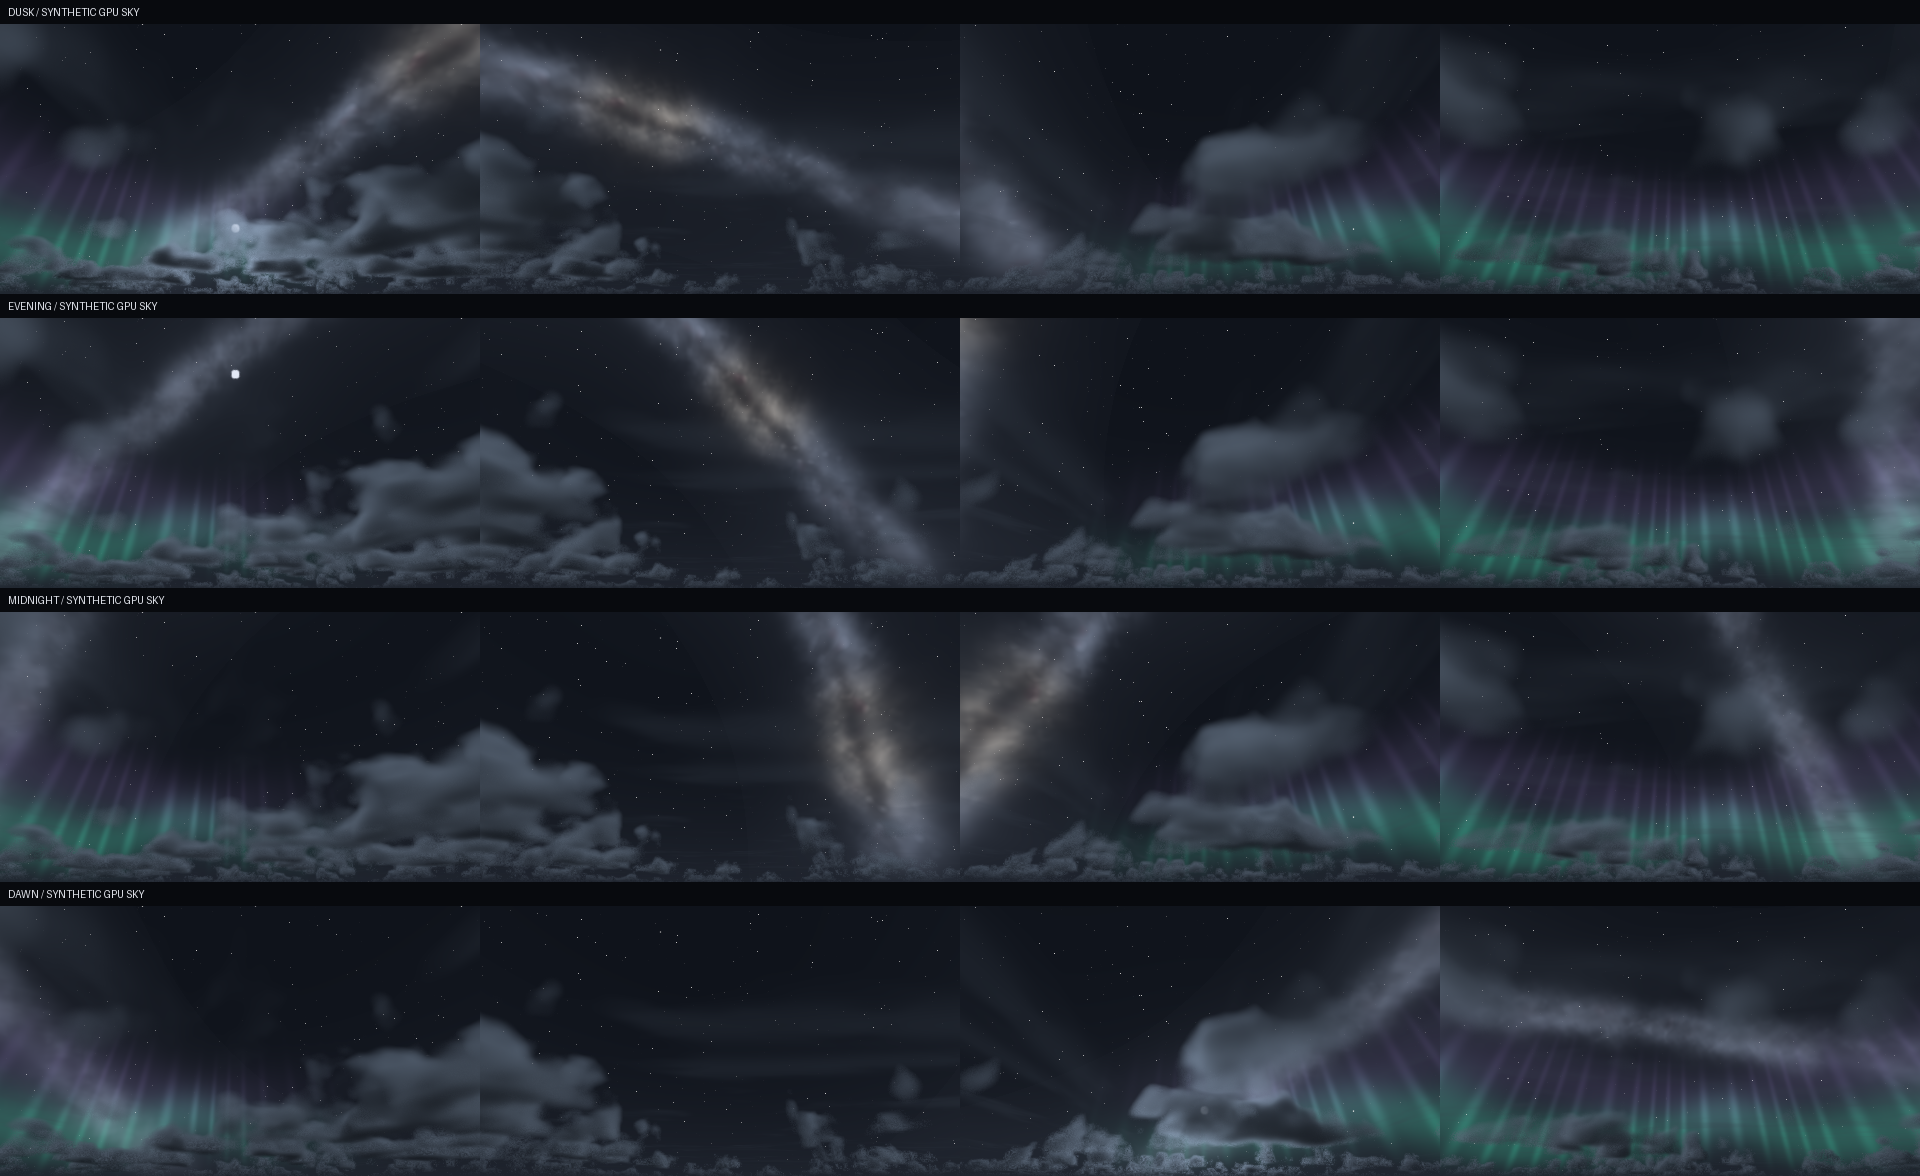
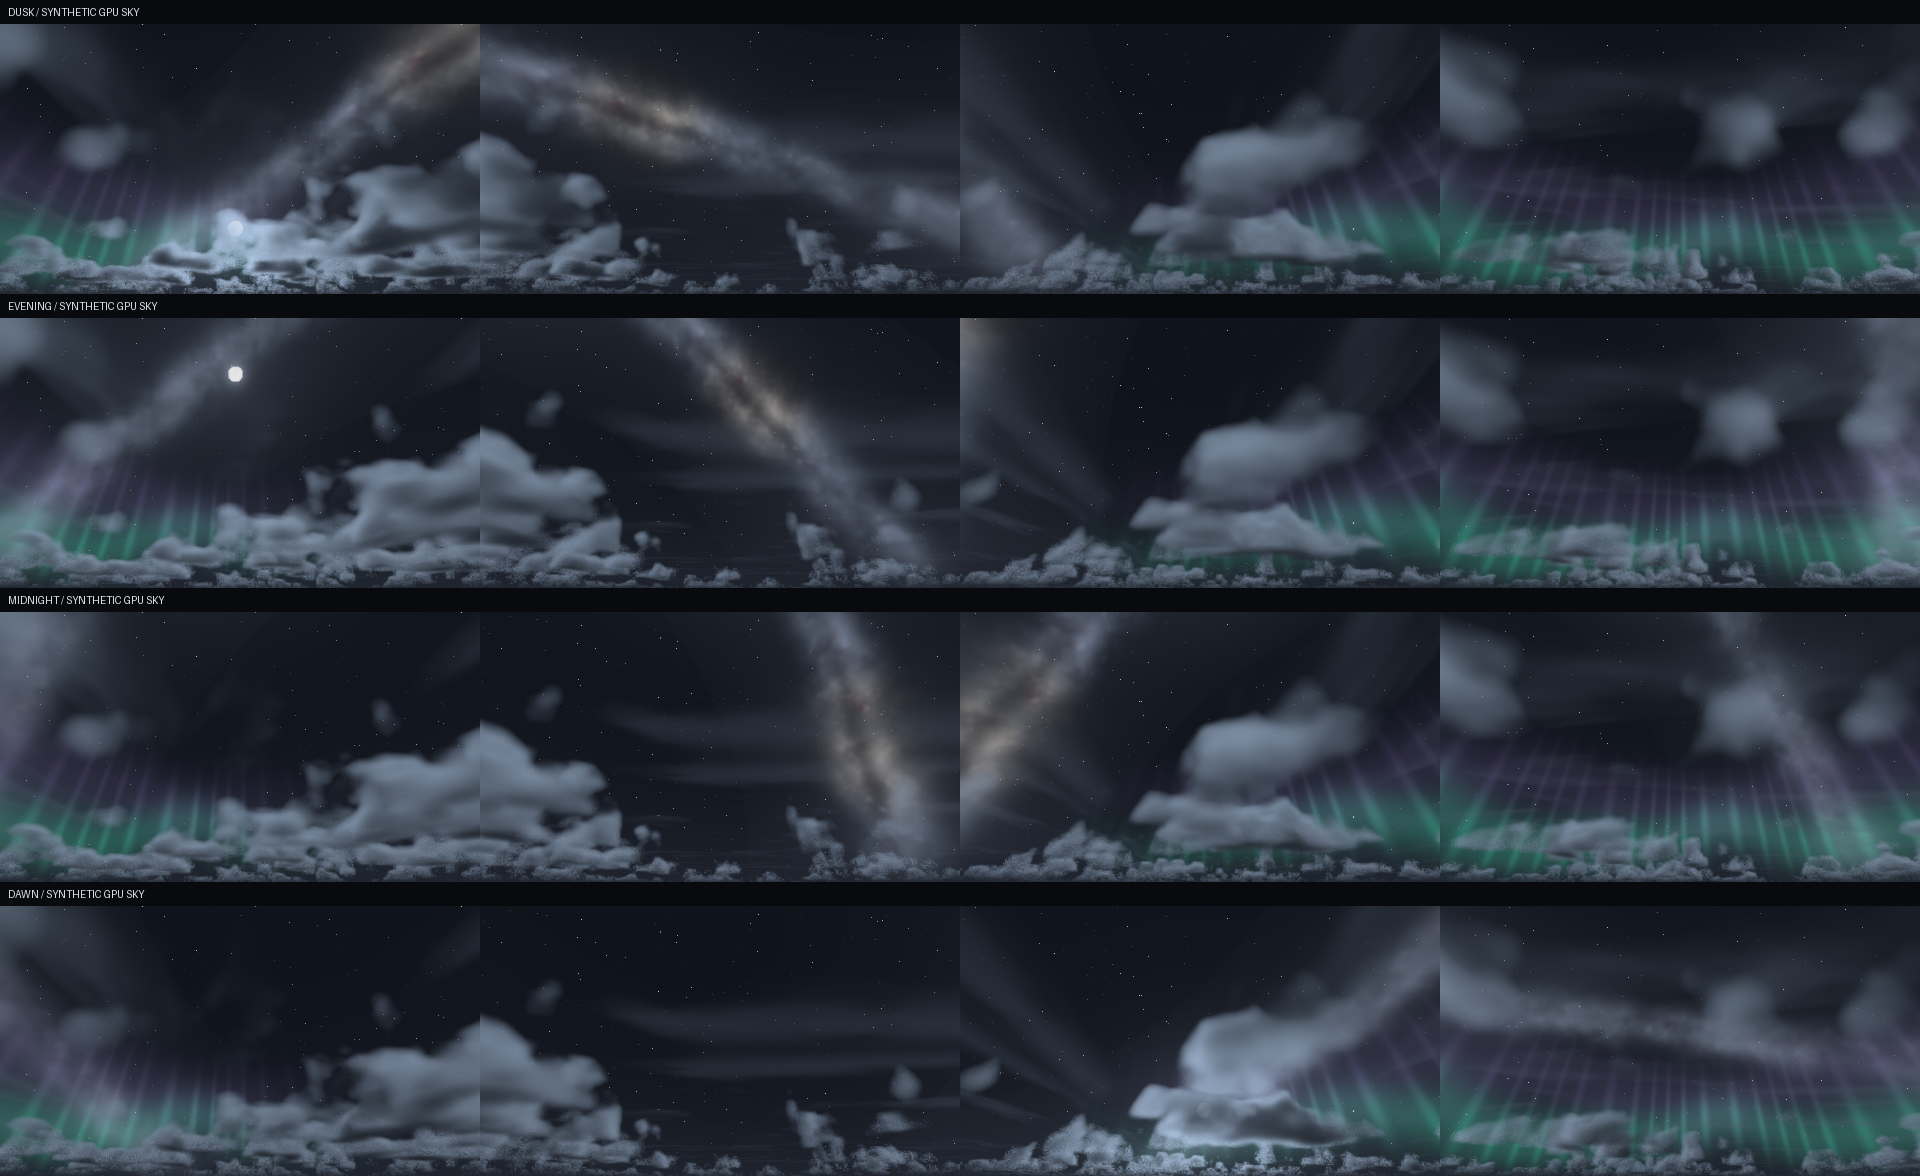
night sky: analytic moon with phases and phase-scaled moonlight
Replace the flat moon disk with a procedural moon: moonPhase drives the
terminator, with maria/crater mottling, faint earthshine and a compact
halo. Directional moonlight now follows the illuminated fraction instead
of keeping near-full brightness at new moon. Most sky rays leave after
one dot product; no texture or render target is added.

Adds GPU regression tests and a moon-phase preview renderer.

diff --git a/tools/test_night_moon.py b/tools/test_night_moon.py
@@ -1,0 +1,147 @@
+"""GPU checks for the analytic moon.
+
+The fixture renders a narrow synthetic view (3 degree half-FOV) around the
+zenith moon and samples moonSky() directly, so the assertions describe the
+phase terminator, surface structure, halo and weather gate without the galaxy
+band or atmosphere gradient masking the result. The call site is covered by
+the compile/render suites. This is not a Minecraft capture.
+"""
+import unittest
+import numpy as np
+from build import SHADERS
+from validate import expand
+from render_smoke import Renderer, U
+
+
+W = H = 256
+HALF_FOV = np.radians(3.0)
+DISK_ANGLE = np.radians(1.9)
+DISK_RADIUS = np.tan(DISK_ANGLE) / np.tan(HALF_FOV)
+
+VERTEX = '#version 330 compatibility\nvoid main(){gl_Position=gl_Vertex;}'
+yy, xx = np.mgrid[0:H, 0:W]
+PX = (xx + 0.5) / W * 2.0 - 1.0
+PY = (yy + 0.5) / H * 2.0 - 1.0
+RR = np.sqrt(PX * PX + PY * PY)
+DISK = RR < 0.75 * DISK_RADIUS        # comfortably inside the limb
+QUARTER = RR < 0.94 * DISK_RADIUS
+HALO = (RR > 1.10 * DISK_RADIUS) & (RR < 1.60 * DISK_RADIUS)
+FAR = RR > 1.25
+
+
+class NightMoonRegression(unittest.TestCase):
+    @classmethod
+    def setUpClass(cls):
+        cls.renderer = Renderer(W, H)
+        fragment = ('#version 330 compatibility\n#define DIMENSION 0\n' +
+                    expand(SHADERS / 'lib/common.glsl') +
+                    expand(SHADERS / 'lib/moon.glsl') +
+                    '''
+uniform vec2 testResolution;
+uniform vec3 testCenter;
+uniform float testNight;
+uniform float testOvercast;
+void main() {
+    vec2 p = gl_FragCoord.xy / testResolution * 2.0 - 1.0;
+    vec3 center = normalize(testCenter);
+    vec3 helper = abs(center.y) > 0.98 ? vec3(0.0, 0.0, 1.0) : vec3(0.0, 1.0, 0.0);
+    vec3 right = normalize(cross(center, helper));
+    vec3 up = cross(right, center);
+    vec3 ray = normalize(center + right * p.x * tan(radians(3.0)) +
+                         up * p.y * tan(radians(3.0)));
+    gl_FragColor = vec4(moonSky(ray, testNight, testOvercast), 1.0);
+}''')
+        cls.program = cls.renderer.gl.compile(VERTEX, fragment)
+        cls.renderer.bind_fbo([cls.renderer.final])
+        cls.renderer.call('glUseProgram', None, [U], cls.program)
+        cls.renderer.uniform(cls.program, 'gbufferModelViewInverse',
+                             np.eye(4, dtype=np.float32))
+        cls.renderer.uniform(cls.program, 'testResolution', [W, H])
+        cls.renderer.uniform(cls.program, 'testCenter', [0.0, 1.0, 0.0])
+
+    @classmethod
+    def tearDownClass(cls):
+        cls.renderer.gl.delete_program(cls.program)
+        cls.renderer.close()
+
+    @classmethod
+    def sky(cls, phase, rain=0.0, night=1.0):
+        """Moon at zenith; the sun is opposite. Phase 0 full, 4 new."""
+        moon = np.array([0.0, 100.0, 0.0], dtype=np.float32)
+        sun = -moon
+        cls.renderer.uniform(cls.program, 'sunPosition', sun)
+        cls.renderer.uniform(cls.program, 'moonPosition', moon)
+        cls.renderer.uniform(cls.program, 'shadowLightPosition', sun)
+        cls.renderer.uniform(cls.program, 'moonPhase', int(phase))
+        cls.renderer.uniform(cls.program, 'testNight', float(night))
+        cls.renderer.uniform(cls.program, 'testOvercast', float(rain) * 0.84)
+        cls.renderer.full_screen()
+        cls.renderer.check('night moon')
+        data = cls.renderer.read(W, H)[:, :, :3]
+        assert np.isfinite(data).all()
+        return data
+
+    @staticmethod
+    def brightness(image):
+        return image @ np.array([0.2126, 0.7152, 0.0722], np.float32)
+
+    def test_daylight_gate(self):
+        day = self.sky(0, night=0.0)
+        self.assertLess(float(day.max()), 1e-5, 'Moon must vanish in daylight')
+
+    def test_deterministic(self):
+        a = self.brightness(self.sky(0))
+        b = self.brightness(self.sky(0))
+        np.testing.assert_array_equal(a, b, 'Moon must be stable between frames')
+
+    def test_full_moon_and_halo(self):
+        image = self.brightness(self.sky(0))
+        disk = float(image[DISK].mean())
+        halo = float(image[HALO].mean())
+        far = float(image[FAR].mean())
+        self.assertGreater(disk, 0.5, 'Full moon disk must read as a bright body')
+        self.assertGreater(halo, far * 2.0, 'Halo must fall off around the disk')
+        self.assertGreater(halo, 0.006, 'Halo must remain visible, not vanish')
+        self.assertLess(halo, disk * 0.35, 'Halo must stay below the disk itself')
+
+    def test_new_moon_goes_dark(self):
+        full = self.brightness(self.sky(0))
+        new = self.brightness(self.sky(4))
+        disk = float(new[DISK].mean())
+        self.assertLess(disk, float(full[DISK].mean()) * 0.10,
+                        'New moon must not show an illuminated disk')
+        self.assertLess(disk, 0.06, 'Earthshine must stay faint')
+        self.assertLess(float(new[HALO].mean()), float(full[HALO].mean()) * 0.85,
+                        'New moon halo must be weaker than the full moon halo')
+
+    def test_quarter_phases_mirror(self):
+        waxing = self.brightness(self.sky(6))  # first quarter
+        waning = self.brightness(self.sky(2))  # last quarter
+        for name, image in (('phase 6', waxing), ('phase 2', waning)):
+            lit = (image[QUARTER] > 0.25).mean()
+            self.assertGreater(float(lit), 0.30, f'{name} must show a lit half')
+            self.assertLess(float(lit), 0.70, f'{name} must stay a half moon')
+        def centroid_x(image):
+            weights = np.where(image > 0.25, image, 0.0)
+            return float((weights * PX).sum() / max(weights.sum(), 1e-8))
+        self.assertLess(centroid_x(waxing) * centroid_x(waning), 0.0,
+                        'Waxing and waning crescents must mirror')
+        self.assertGreater(abs(centroid_x(waxing) - centroid_x(waning)), 0.20,
+                           'The lit limb must flip sides between the phases')
+
+    def test_disk_is_bounded(self):
+        image = self.brightness(self.sky(0))
+        disk = float(image[DISK].mean())
+        beyond = float(image[RR > 1.15 * DISK_RADIUS].max())
+        self.assertLess(beyond, disk * 0.35,
+                        'Nothing bright may leak beyond the moon limb')
+
+    def test_overcast_dims_the_moon(self):
+        clear = self.brightness(self.sky(0))
+        rain = self.brightness(self.sky(0, rain=1.0))
+        self.assertLess(float(rain[DISK].mean()), float(clear[DISK].mean()) * 0.45,
+                        'Overcast weather must strongly dim the moon')
+
+
+if __name__ == '__main__':
+    unittest.main()

diff --git a/tools/render_night_moon.py b/tools/render_night_moon.py
@@ -1,0 +1,119 @@
+"""Render the analytic moon phase sheet and a synthetic night context.
+
+The phase row samples moonSky() directly at a 3 degree half-FOV; the wide frame
+runs the full shader pipeline. Both are synthetic GPU fixtures, not Minecraft
+screenshots.
+"""
+import json
+import math
+import numpy as np
+from PIL import Image, ImageDraw
+from build import ROOT, SHADERS, shader_digest
+from validate import expand
+from render_smoke import Renderer, look_at, U
+
+PHASES = ['FULL', 'WANING GIBBOUS', 'LAST QUARTER', 'WANING CRESCENT',
+          'NEW', 'WAXING CRESCENT', 'FIRST QUARTER', 'WAXING GIBBOUS']
+CELL = 160
+CONTEXT_W, CONTEXT_H = 1280, 480
+VERTEX = '#version 330 compatibility\nvoid main(){gl_Position=gl_Vertex;}'
+
+
+def phase_strip():
+    renderer = Renderer(CELL, CELL)
+    fragment = ('#version 330 compatibility\n#define DIMENSION 0\n' +
+                expand(SHADERS / 'lib/common.glsl') +
+                expand(SHADERS / 'lib/moon.glsl') +
+                '''
+uniform vec2 testResolution;
+uniform vec3 testCenter;
+uniform float testNight;
+uniform float testOvercast;
+void main() {
+    vec2 p = gl_FragCoord.xy / testResolution * 2.0 - 1.0;
+    vec3 center = normalize(testCenter);
+    vec3 helper = abs(center.y) > 0.98 ? vec3(0.0, 0.0, 1.0) : vec3(0.0, 1.0, 0.0);
+    vec3 right = normalize(cross(center, helper));
+    vec3 up = cross(right, center);
+    vec3 ray = normalize(center + right * p.x * tan(radians(3.0)) +
+                         up * p.y * tan(radians(3.0)));
+    vec3 sky = moonSky(ray, testNight, testOvercast);
+    gl_FragColor = vec4(sky + vec3(0.003, 0.004, 0.008), 1.0);
+}''')
+    program = renderer.gl.compile(VERTEX, fragment)
+    renderer.bind_fbo([renderer.final])
+    renderer.call('glUseProgram', None, [U], program)
+    renderer.uniform(program, 'gbufferModelViewInverse', np.eye(4, dtype=np.float32))
+    renderer.uniform(program, 'testResolution', [CELL, CELL])
+    renderer.uniform(program, 'testCenter', [0.0, 1.0, 0.0])
+    renderer.uniform(program, 'testNight', 1.0)
+    renderer.uniform(program, 'testOvercast', 0.0)
+    renderer.uniform(program, 'moonPosition', [0.0, 100.0, 0.0])
+    renderer.uniform(program, 'sunPosition', [0.0, -100.0, 0.0])
+    renderer.uniform(program, 'shadowLightPosition', [0.0, -100.0, 0.0])
+    cells = []
+    try:
+        for phase in range(8):
+            renderer.uniform(program, 'moonPhase', phase)
+            renderer.full_screen()
+            renderer.check(f'moon phase {phase}')
+            data = renderer.read(CELL, CELL)[::-1, :, :3]
+            cells.append(Image.fromarray(np.uint8(np.clip(data, 0.0, 1.0) * 255)))
+    finally:
+        renderer.gl.delete_program(program)
+        renderer.close()
+    return cells
+
+
+def context_frame():
+    elevation = math.radians(34)
+    moon = np.array([0.0, math.sin(elevation), math.cos(elevation)], dtype=np.float32)
+    renderer = Renderer(CONTEXT_W, CONTEXT_H)
+    renderer.scene = lambda program, kind: None
+    renderer.rotation = look_at(np.zeros(3), moon)
+    try:
+        image, metrics = renderer.render(
+            'night', profile='HIGH',
+            options={'TAA_QUALITY': 0, 'CLOUD_COVERAGE': 0.15},
+            sun_direction=-moon, moon_phase=0)
+    finally:
+        renderer.close()
+    return image, metrics, moon
+
+
+def main():
+    cells = phase_strip()
+    context, metrics, moon = context_frame()
+
+    header = 26
+    label_row = 22
+    width = max(CONTEXT_W, CELL * len(PHASES))
+    sheet = Image.new('RGB', (width, header + CONTEXT_H + label_row + CELL), (8, 10, 14))
+    draw = ImageDraw.Draw(sheet)
+    draw.text((8, 7), 'FULL MOON / SYNTHETIC GPU SKY (NOT A MINECRAFT SCREENSHOT)',
+              fill=(225, 228, 235))
+    sheet.paste(context, (0, header))
+    draw.text((8, header + CONTEXT_H + 5), 'MOON PHASES 0-7 / SYNTHETIC GPU SKY',
+              fill=(225, 228, 235))
+    y = header + CONTEXT_H + label_row
+    for i, cell in enumerate(cells):
+        sheet.paste(cell, (i * CELL, y))
+        draw.text((i * CELL + 4, y + CELL - 14), PHASES[i], fill=(190, 198, 212))
+    sheet.save(ROOT / 'Galaxy Shader' / 'previews' / 'night-moon.png')
+
+    report = {
+        'type': 'Synthetic GPU sky fixtures; not Minecraft screenshots',
+        'shader_sha256': shader_digest(),
+        'moon_direction': [float(v) for v in moon],
+        'phase_order': PHASES,
+        'context_draw': metrics,
+        'preview': 'Galaxy Shader/previews/night-moon.png',
+        'status': 'rendered for visual review',
+    }
+    (ROOT / 'validation' / 'night-moon-report.json').write_text(
+        json.dumps(report, indent=2) + '\n', encoding='utf-8')
+    print(json.dumps({'preview': report['preview'], 'mean': metrics['mean']}), flush=True)
+
+
+if __name__ == '__main__':
+    main()

diff --git a/tools/render_smoke.py b/tools/render_smoke.py
@@ -180,7 +180,7 @@ class Renderer:
             self.bind_fbo([texture])
             self.call('glClear',None,[U],0x4000)
 
-    def render(self,kind='day',profile='HIGH',options=None,time=25.0,preserve_history=False,sun_direction=None):
+    def render(self,kind='day',profile='HIGH',options=None,time=25.0,preserve_history=False,sun_direction=None,moon_phase=0):
         self.check('initialization')
         if not preserve_history:self.clear_history()
         folder={'nether':'world-1','end':'world1'}.get(kind,'world0')
@@ -207,7 +207,7 @@ class Renderer:
             'thunderStrength':1.0 if kind=='thunder' else 0.0,
             'frameTimeCounter':time,'frameCounter':int(time*20)%720720,
             'isEyeInWater':1 if kind=='underwater' else 0,
-            'moonPhase':4,'eyeBrightnessSmooth':[40,0 if kind in ['cave','nether','end'] else 240],
+            'moonPhase':int(moon_phase),'eyeBrightnessSmooth':[40,0 if kind in ['cave','nether','end'] else 240],
             'fogColor':[0.35,0.07,0.025] if kind=='nether' else [0.4,0.55,0.7],
             'skyColor':[0.4,0.6,0.85], 'alphaTestRef':0.1,'centerDepthSmooth':0.9975,
         }
